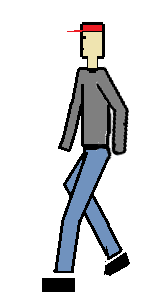
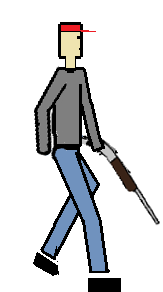
Начало боевой системы
Кнопка f для активации

diff --git a/P3part.html b/P3part.html
@@ -6,6 +6,9 @@
 <script type="text/javascript"src="js/movie.js"></script>
 <title>HumanWalk</title> 
 <style type="text/css"> 
+body{
+cursor:auto;
+}
 #floor{
 background:#1A100E;
 width:4578px;
@@ -72,11 +75,12 @@ outline: 5px solid black;
 }
 .human{
 background:url('img/1.png');
-width:170px;
+width:190px;
 height:300px;
 position:absolute;
 top:608px;
 left:0px;
+background-repeat: no-repeat;
 z-index:6;
 }
 </style>

diff --git a/js/Fight.js b/js/Fight.js
@@ -1,0 +1,18 @@
+function fight()
+{
+document.body.style.cursor = url('.../img/mouse.cur'); 
+
+
+
+
+
+
+
+
+
+
+
+
+
+
+} 
